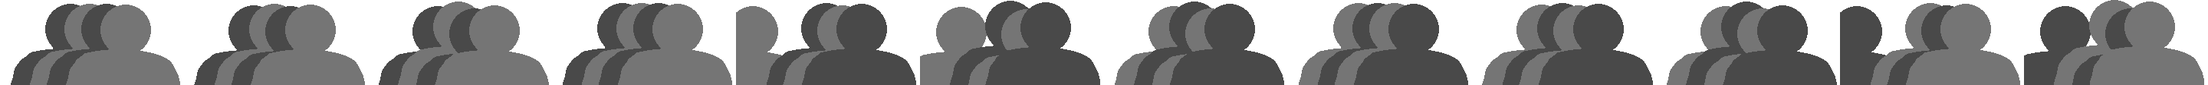
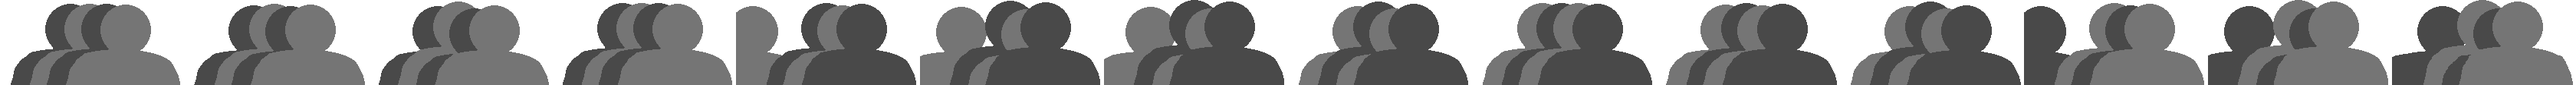
Timeの画像追加と細かい修正

diff --git a/GameJam2025/GameJam/Object/NeedleAndPatient.cpp b/GameJam2025/GameJam/Object/NeedleAndPatient.cpp
@@ -105,7 +105,7 @@ void NeedleAndPatient::Initialize()
 	//エフェクトの座標初期化
 	effect_pos = 0.0f;
 	effect_pos2 = 0.0f;
-	effect_size = 5.0f;
+	effect_size = 7.0f;
 	vel = -10;
 	acc = 1;
 
@@ -336,11 +336,15 @@ void NeedleAndPatient::Draw() const
 		if (state == State::come_out)
 		{
 			//20.0fはneedle_imageとの画像の中心の差
-			DrawRotaGraphF(needle_pos.x, needle_pos.y - 20.0f, 1, 0, liquid_image[0], TRUE);
+			DrawRotaGraphF(needle_pos.x, needle_pos.y - 19.0f, 1, 0, liquid_image[0], TRUE);
+			//液体隠す用
+			DrawBoxAA(needle_pos.x - 70.0f, needle_pos.y, needle_pos.x + 70.0f, needle_pos.y, 0x000000, TRUE);
 		}
 		else
 		{
 			DrawExtendGraphF(liquid_pos.x,  liquid_size, liquid_pos.x + 140.0f, liquid_pos.y + 240.0f, liquid_image[0],TRUE);
+			//液体隠す用
+			DrawBoxAA(needle_pos.x - 70.0f, liquid_size, needle_pos.x + 70.0f, liquid_size + 10.0f, 0x000000, TRUE);
 		}
 		if (state == State::eventline_move)
 		{
@@ -349,11 +353,8 @@ void NeedleAndPatient::Draw() const
 			DrawCircle((int)bubble2.x, (int)bubble2.y, 3, 0xffffff, TRUE);
 		}
 
-		//液体隠す用
-		DrawBoxAA(needle_pos.x-70.0f, 0.0f, needle_pos.x+70.0f, 10.0f, 0x999999, TRUE);
 		//注射器の画像表示
 		DrawRotaGraph((int)needle_pos.x, (int)needle_pos.y, 1, 0, needle_image[0], TRUE);
-
 
 		//SetDrawBrightで色の変更
 		if (is_black == true)
@@ -405,10 +406,10 @@ void NeedleAndPatient::Draw() const
 		SetDrawBlendMode(DX_BLENDMODE_NOBLEND, face_alpha);
 		*/
 		//DrawFormatString(100, 40, 0x000000, "el_sum:%d", el_scaled_y);
-		DrawFormatString(100, 60, 0x000000, "patient_sum:%d", patient_sum);
+		//DrawFormatString(100, 60, 0x000000, "patient_sum:%d", patient_sum);
 		//DrawFormatString(100, 80, 0x000000, "liquid_y:%d", (int)liquid_pos.y + (int)liquid_size);
-		DrawFormatString(100, 100, 0x000000, "stop_y:%d", stop_y);
-		DrawFormatString(100, 120, 0x000000, "eventline_y:%d", event_line->GetLineStopY());
+		//DrawFormatString(100, 100, 0x000000, "stop_y:%d", stop_y);
+		//DrawFormatString(100, 120, 0x000000, "eventline_y:%d", event_line->GetLineStopY());
 		//DrawFormatString(100, 120, 0x000000, "needle_x:%f", needle_pos.x);
 		//DrawFormatString(100, 120, 0x000000, "liquid_size:%f", liquid_size);
 
@@ -457,24 +458,34 @@ void NeedleAndPatient::EffectDraw() const
 	float frame_size_x2 = effect_pos2.x + effect_size.x + shift;
 	float frame_size_y2 = effect_pos2.y + effect_size.y + shift;
 
-	//枠部分
-	DrawBoxAA(effect_pos.x - shift, effect_pos.y - shift, frame_size_x, frame_size_y, 0xffffff, TRUE);
-	DrawBoxAA(effect_pos.x - shift-4.0f, effect_pos.y - shift - 6.0f, frame_size_x-4.0f, frame_size_y - 6.0f, 0xffffff, TRUE);
+	////枠部分
+	//DrawBoxAA(effect_pos.x - shift, effect_pos.y - shift, frame_size_x, frame_size_y, 0xffffff, TRUE);
+	//DrawBoxAA(effect_pos.x - shift-4.0f, effect_pos.y - shift - 6.0f, frame_size_x-4.0f, frame_size_y - 6.0f, 0xffffff, TRUE);
 
-	DrawBoxAA(effect_pos2.x - shift, effect_pos2.y - shift, frame_size_x2, frame_size_y2, 0xffffff, TRUE);
-	DrawBoxAA(effect_pos2.x - shift-7.0f, effect_pos2.y - shift - 6.0f, frame_size_x2-7.0f, frame_size_y2 - 6.0f, 0xffffff, TRUE);
+	//DrawBoxAA(effect_pos2.x - shift, effect_pos2.y - shift, frame_size_x2, frame_size_y2, 0xffffff, TRUE);
+	//DrawBoxAA(effect_pos2.x - shift-7.0f, effect_pos2.y - shift - 6.0f, frame_size_x2-7.0f, frame_size_y2 - 6.0f, 0xffffff, TRUE);
 
+	if (state != State::come_out && state!=State::wait)
+	{
+		float box_size_x = effect_pos.x + effect_size.x;
+		float box_size_y = effect_pos.y + effect_size.y;
 
-	float box_size_x = effect_pos.x + effect_size.x;
-	float box_size_y = effect_pos.y + effect_size.y;
+		float box_size_x2 = effect_pos2.x + effect_size.x;
+		float box_size_y2 = effect_pos2.y + effect_size.y;
+		//SetDrawBrightで色の変更
+		if (is_black == true)
+		{
+			SetDrawBright(73, green_num, 73);
+		}
+		else {
+			SetDrawBright(117, green_num, 117);
+		}
+		//四角部分
+		DrawBoxAA(effect_pos.x, effect_pos.y, box_size_x, box_size_y, 0x68ff00, TRUE);
+		DrawBoxAA(effect_pos.x - 4.0f, effect_pos.y - 6.0f, box_size_x - 4.0f, box_size_y - 6.0f, 0xffffff, TRUE);
 
-	float box_size_x2 = effect_pos2.x + effect_size.x;
-	float box_size_y2 = effect_pos2.y + effect_size.y;
-	//四角部分
-	DrawBoxAA(effect_pos.x, effect_pos.y, box_size_x, box_size_y, 0x68ff00, TRUE);
-	DrawBoxAA(effect_pos.x-4.0f , effect_pos.y - 6.0f, box_size_x-4.0f, box_size_y - 6.0f, 0x68ff00, TRUE);
-
-	DrawBoxAA(effect_pos2.x, effect_pos2.y , box_size_x2, box_size_y2, 0x68ff00, TRUE);
-	DrawBoxAA(effect_pos2.x-7.0f, effect_pos2.y - 6.0f, box_size_x2-7.0f, box_size_y2 - 6.0f, 0x68ff00, TRUE);
-
+		DrawBoxAA(effect_pos2.x, effect_pos2.y, box_size_x2, box_size_y2, 0x68ff00, TRUE);
+		DrawBoxAA(effect_pos2.x - 7.0f, effect_pos2.y - 6.0f, box_size_x2 - 7.0f, box_size_y2 - 6.0f, 0xffffff, TRUE);
+		SetDrawBright(255, 255, 255);
+	}
 }

diff --git a/GameJam2025/GameJam/Scene/InGame/InGameScene.cpp b/GameJam2025/GameJam/Scene/InGame/InGameScene.cpp
@@ -24,6 +24,7 @@ InGameScene::InGameScene() :
     //インゲーム画像
     InGameImage = LoadGraph("Resource/Image/InGame/InGame.png");
     End = LoadGraph("Resource/Image/InGame/Finish.png");
+    timer_img = LoadGraph("Resource/Image/InGame/Timer.png");
     Start = LoadGraph("Resource/Image/InGame/Start.png");
     BGM = LoadSoundMem("Resource/Sounds/BGM/ingameBGM.mp3");
     ChangeVolumeSoundMem(150, BGM);
@@ -154,8 +155,8 @@ void InGameScene::Draw() const
 {
     DrawGraph(0, 0, InGameImage, TRUE);
     __super::Draw();
-    DrawFormatString(10, 10, GetColor(0, 0, 0),"patient_cnt%d\n",patient_count);
-    DrawFormatString(10, 30, GetColor(0, 0, 0),"total_score%d\n",score->GetTotalScore());
+    //DrawFormatString(10, 10, GetColor(0, 0, 0),"patient_cnt%d\n",patient_count);
+    //DrawFormatString(10, 30, GetColor(0, 0, 0),"total_score%d\n",score->GetTotalScore());
     back_column->Draw();
     event_line->Draw();
     n_and_p_black->Draw();
@@ -172,8 +173,9 @@ void InGameScene::Draw() const
             DrawRotaGraph(330, 240, 2, 0,Start, TRUE); //スタート時の場合
         }
         else {
-            DrawGraph(10, 50, numberImage[(time / 10) % 10], TRUE); // 十の位を表示
-            DrawGraph(40, 50, numberImage[time%10], TRUE); // 1の位を表示
+            DrawGraph(10, 5, timer_img, TRUE);
+            DrawGraph(20, 50, numberImage[(time / 10) % 10], TRUE); // 十の位を表示
+            DrawGraph(50, 50, numberImage[time%10], TRUE); // 1の位を表示
         }
     }
     else if (gameState == eGameState::eTimeUp) {
@@ -254,7 +256,7 @@ void InGameScene::SaveNewScore()
 
     int save_score = score->GetTotalScore();
 
-    string txt_file_path = "C:\\GameJam2025\\GameJam2025\\GameJam\\Resource\\Ranking\\Ranking.txt";
+    string txt_file_path = "Resource\\Ranking\\Ranking.txt";
     ofstream ofs_txt_file(txt_file_path, std::ios::app);//std::ios::appで末尾に記入毎回保存は３つだけで良いはず
     if (ofs_txt_file.is_open()) {
         ofs_txt_file << patient_count << ',' << save_score;

diff --git a/GameJam2025/GameJam/Object/Column.cpp b/GameJam2025/GameJam/Object/Column.cpp
@@ -8,8 +8,8 @@ Column::Column()
 	ResourceManager* rm = ResourceManager::GetInstance();
 	std::vector<int> tmp;
 	//240*112
-	tmp = rm->GetImages("Resource/Image/InGame/back_column.png",12,12,1,240,112);
-	for (int i = 0; i < 12; i++)
+	tmp = rm->GetImages("Resource/Image/InGame/back_column.png",14,14,1,240,112);
+	for (int i = 0; i < 14; i++)
 	{
 		column_img.push_back(tmp[i]);
 	}
@@ -48,13 +48,13 @@ void Column::AnimUpdate(bool is_black)
 		}
 		break;
 	case AnimState::change_gray:
-		//4~5黒から白へ
+		//4~6黒から白へ
 		if (anim_cnt++ > 2)
 		{
 			anim_cnt = 0;
-			if (img_num++ >= 5)
+			if (img_num++ >= 6)
 			{
-				img_num = 6;
+				img_num = 7;
 			
 				anim_state = AnimState::gray;
 			}
@@ -62,22 +62,22 @@ void Column::AnimUpdate(bool is_black)
 
 		break;
 	case AnimState::gray:
-		//6~9を表示
+		//7~10を表示
 		if (anim_cnt++ > 2)
 		{
 			anim_cnt = 0;
-			if (img_num++ >= 9)
+			if (img_num++ >= 10)
 			{
-				img_num = 6;
+				img_num = 7;
 			}
 		}
 		break;
 	case AnimState::change_black:
-		//10~11白から黒へ
+		//11~13白から黒へ
 		if (anim_cnt++ > 2)
 		{
 			anim_cnt = 0;
-			if (img_num++ >= 11)
+			if (img_num++ >= 13)
 			{
 				img_num = 0;
 				anim_state = AnimState::black;

diff --git a/GameJam2025/GameJam/Scene/InGame/InGameScene.h b/GameJam2025/GameJam/Scene/InGame/InGameScene.h
@@ -25,6 +25,7 @@ private:
     int SE;
     int SE2;
     bool se_once;//seを一回だけ鳴らす用
+    int timer_img;//タイマーの文字
 
     Score* score = new Score;
     class EventLine* event_line;
